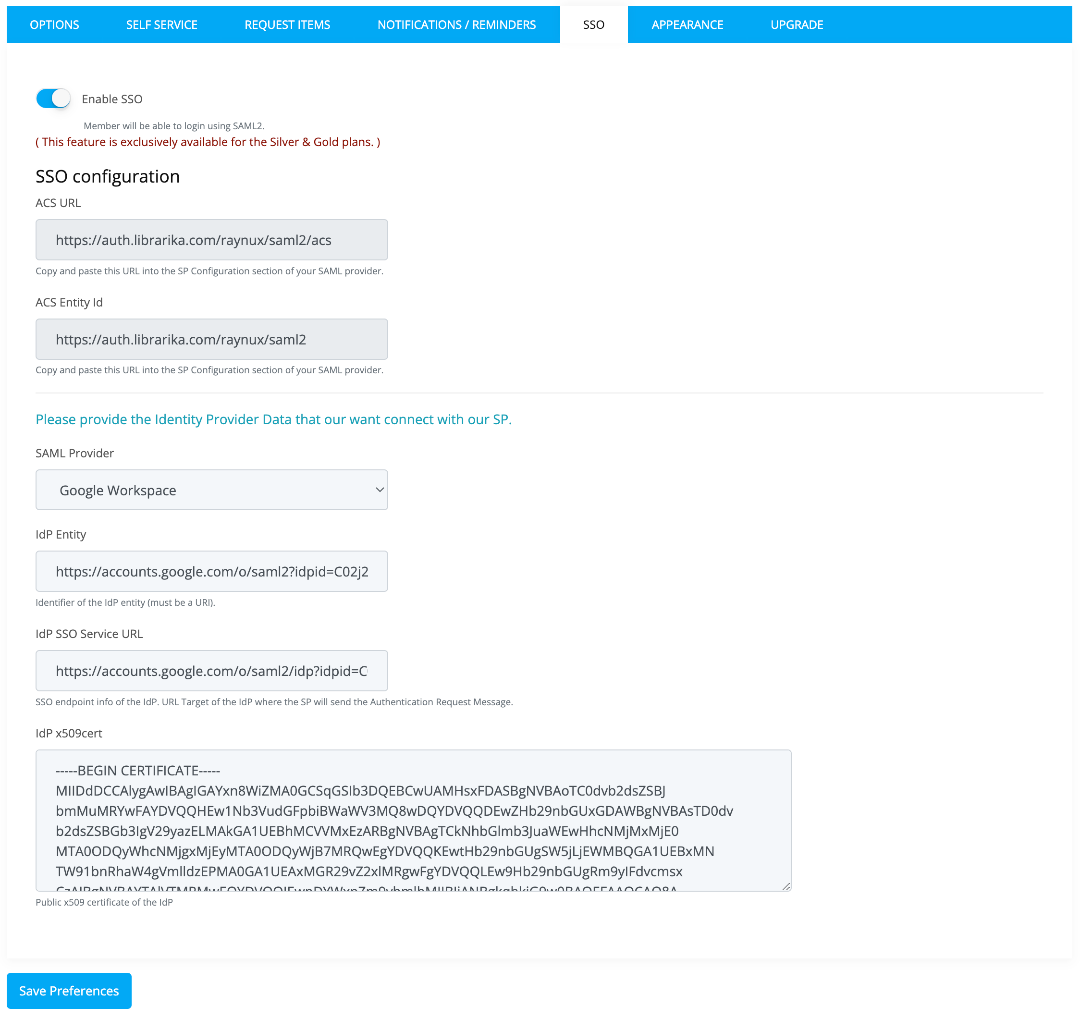
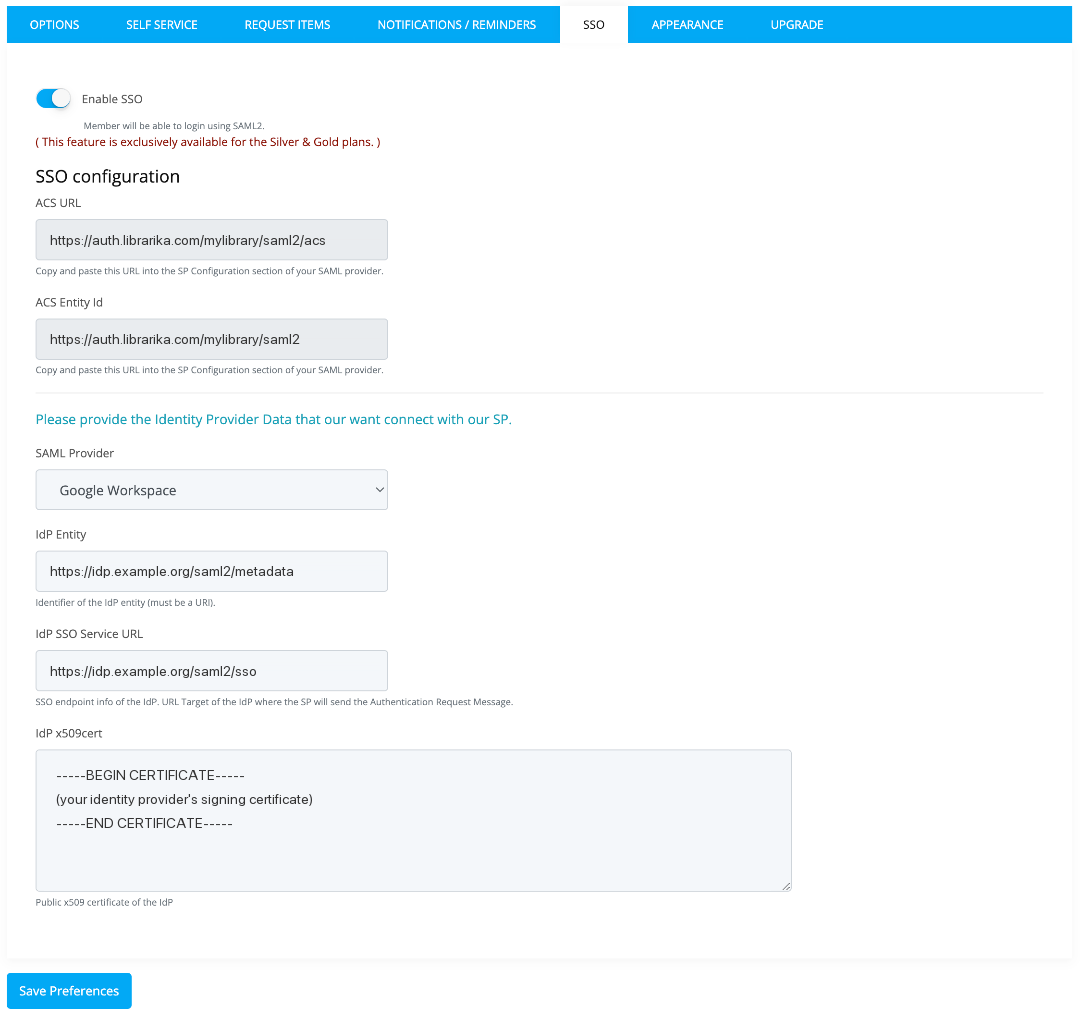
SSO tab screenshot: sample addresses and certificate instead of a real identity provider's

diff --git a/docs/sso-saml.md b/docs/sso-saml.md
@@ -24,7 +24,9 @@ You need someone who can add a SAML application in your identity provider's admi
 
 In the sidebar, go to **Manage** > **Preferences** and open the `SSO` tab. Switch on **Enable SSO** (*"Member will be able to login using SAML2."*). The rest of the SSO settings appear.
 
-![The SSO tab in Preferences](img/library-preference-sso.png)
+![The SSO tab in Preferences, with sample values](img/library-preference-sso.png)
+
+The **SSO only on the website** and **SSO only on the mobile app** switches (see [SSO only](#sso-only)) appear under **Enable SSO**; they are not in this picture.
 
 Under **SSO configuration** Librarika shows two values to give your identity provider:
 
